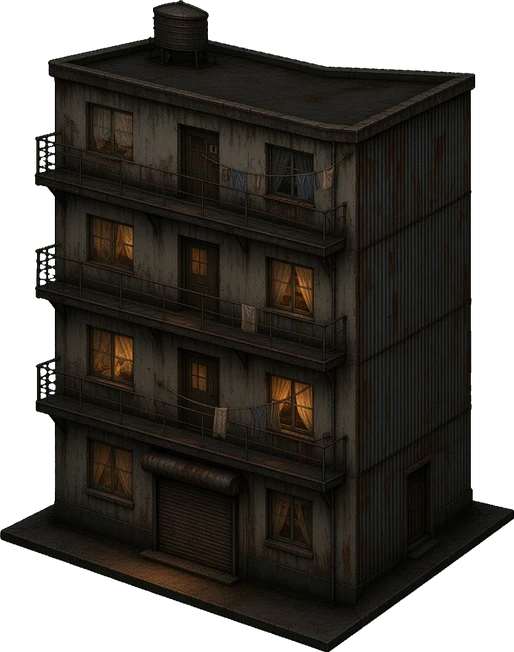
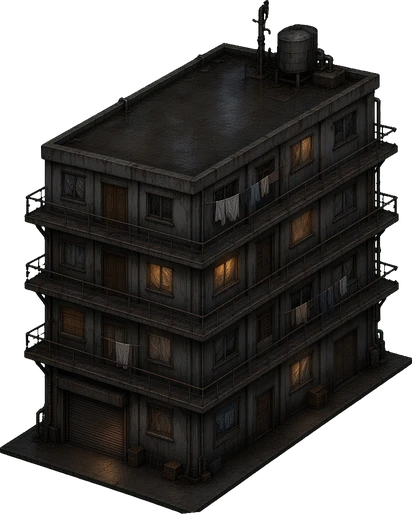
Lower-Town v1 : immeuble ouvrier à coursives et Foyer Ruiz (soupirail), despill vert global, catalogue

diff --git a/tools_lowertown.py b/tools_lowertown.py
@@ -19,6 +19,8 @@ LT = {
 def build(aid):
     src, (w, d), h, role = LT[aid]
     rgba = TF.key_green_obj(G + src)
+    # despill vert global : le vert résiduel (rambardes fines, tuyaux) est ramené au max(R, B) ; la palette Lower-Town n'a aucun vert voulu
+    p = rgba[..., :3].astype(float); p[..., 1] = np.minimum(p[..., 1], np.maximum(p[..., 0], p[..., 2]) * 1.05 + 2); rgba = rgba.copy(); rgba[..., :3] = p.astype('uint8')
     rgba, fix = TI.v4fix(rgba)
     # emprise : proportions x/z mesurées sur l'arête basse corrigée (coin avant = point le plus bas), échelle fixée par la plus grande dimension
     m = rgba[..., 3] > 100; ys, xs = np.nonzero(m); by = ys.max(); bx = int(np.median(xs[ys >= by - 3]))

diff --git a/docs/ASSETS_CATALOGUE.md b/docs/ASSETS_CATALOGUE.md
@@ -306,5 +306,10 @@ Générés (GenerateImage) sur fond vert uni, références : `nml-quartiers/art-
 
 | id | source | emprise x × z (m) | hauteur (m) | contrôle |
 |---|---|---|---|---|
-| `buildings/lt_portique_io.webp` | `art-gen/gen_lt_portique_io.jpg` | 3.5 × 7.0 | 6.5 | arête basse [0.5, 0.69] → [0.33, 0.7] ; judge Hough rejeté (pente dominante 0.5) ; hauteur implicite 2.58 m ; bord magenta 0.05 % |
-| `buildings/lt_atelier_usine.webp` | `art-gen/gen_lt_atelier_usine.jpg` | 7.0 × 14.0 | 9.0 | arête basse [0.51, 0.61] → [0.33, 0.7] ; judge Hough accepté (pente dominante 0.7) ; hauteur implicite 4.16 m ; bord magenta 1.23 % |
+| `buildings/lt_portique_io.webp` | `art-gen/gen_lt_portique_io.jpg` | 3.5 × 7.0 | 6.5 | arête basse [0.5, 0.69] → [0.33, 0.7] ; judge Hough rejeté (pente dominante 0.5) ; hauteur implicite 2.58 m ; bord magenta 0.03 % |
+| `buildings/lt_atelier_usine.webp` | `art-gen/gen_lt_atelier_usine.jpg` | 7.0 × 14.0 | 9.0 | arête basse [0.51, 0.61] → [0.33, 0.7] ; judge Hough accepté (pente dominante 0.7) ; hauteur implicite 4.16 m ; bord magenta 0.04 % |
+| `buildings/lt_immeuble_ouvrier.webp` | `art-gen/gen_lt_immeuble_ouvrier.jpg` | 4.5 × 8.0 | 13.0 | arête basse [0.47, 0.64] → [0.33, 0.7] ; judge Hough rejeté (pente dominante 0.6) ; hauteur implicite 6.7 m ; bord magenta 0.01 % |
+| `buildings/lt_foyer_ruiz.webp` | `art-gen/gen_lt_foyer_ruiz.jpg` | 10.0 × 7.0 | 5.5 | arête basse [0.32, 0.66] → [0.33, 0.7] ; judge Hough rejeté (pente dominante 0.15) ; hauteur implicite 3.97 m ; bord magenta 0.0 % |
+
+
+Notes : la hauteur implicite (formule de `tools_interiors`) sous-estime nettement ces bâtiments (génération plus plongeante que la caméra v4, socles débordants) ; `height_m` du manifest est la hauteur visée. Despill vert global (aucun vert voulu dans la palette). Écartés : `gen_lt_atelier_usine` essais 1-2 (toits à pignons, pas de vrais sheds), portique essai 2 (perspective frontale à point de fuite, halo vert). Planche : `nml-shots/lowertown_sprites.png` (planche d'assets, pas une capture du jeu).
